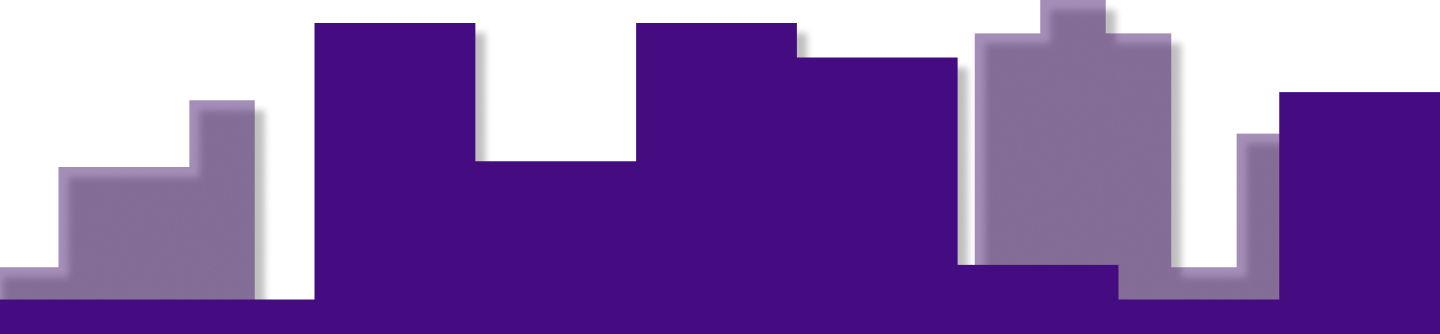
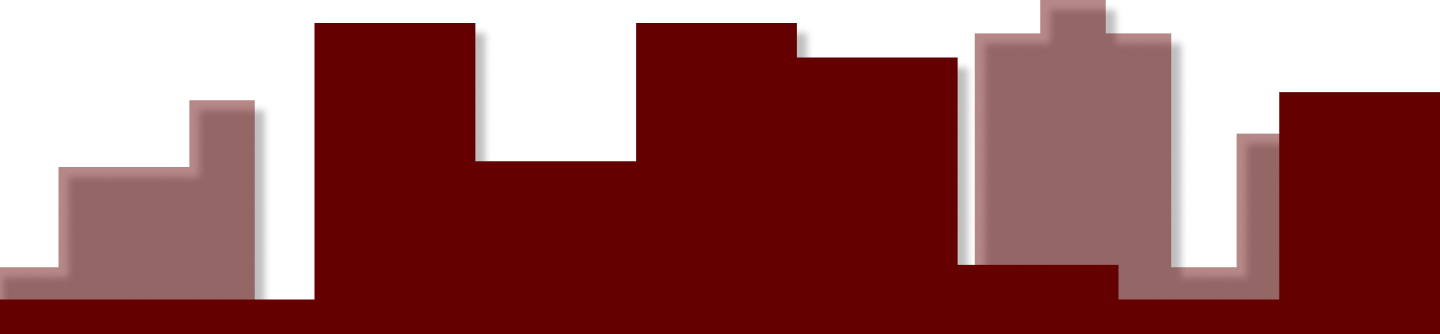
restyling started

diff --git a/ClientApp/src/components/NewTask.css b/ClientApp/src/components/NewTask.css
@@ -1,24 +1,80 @@
 .form {
-    background: #EFCDFF;
-    display: flex;
-    flex-direction: column;
-    align-items: center;
+    margin: 0 auto;
+    max-width: 500px;
+    padding: 30px;
+    background-color: #f3f3f3;
+    border-radius: 10px;
 }
 
 .heading {
-    color: #259F46;
     text-align: center;
-    font-family: Rammetto One;
-    font-size: 56px;
-    font-style: normal;
-    font-weight: 400;
-    line-height: 47.5px;
+    color: #333;
 }
 
 .form-group {
-    color: blue;
+    margin-bottom: 20px;
+}
+
+.form-control {
+    padding: 10px;
+    border-radius: 5px;
+    border: 1px solid #ddd;
 }
 
 .task-button {
+    text-align: center;
+    padding-top: 20px;
+}
+
+.btn {
+    padding: 10px 20px;
+    border: none;
+    border-radius: 5px;
+    cursor: pointer;
+}
+
+.btn-primary {
+    background-color: #007bff;
+    color: #fff;
+}
+
+.btn-success {
+    background-color: #28a745;
+    color: #fff;
+}
+
+.modal {
+    position: fixed;
+    top: 0;
+    left: 0;
+    width: 100%;
+    height: 100%;
+    background-color: rgba(0,0,0,0.5);
     display: flex;
+    justify-content: center;
+    align-items: center;
+}
+
+.modal-dialog {
+    width: 500px;
+    background-color: #fff;
+    border-radius: 10px;
+    overflow: auto;
+}
+
+.modal-header,
+.modal-footer {
+    padding: 20px;
+    border-bottom: 1px solid #ddd;
+}
+
+.modal-title {
+    margin: 0;
+    font-size: 1.2em;
+}
+
+.close {
+    cursor: pointer;
+    float: right;
+    font-size: 1.2em;
 }

diff --git a/ClientApp/src/components/AdminHome.js b/ClientApp/src/components/AdminHome.js
@@ -3,7 +3,6 @@ import { useState } from "react";
 import { useNavigate } from "react-router-dom";
 import './AdminHome.css';
 import Footer from "./Vector.png";
-import Ellipse from "./Ellipse 1.svg";
 import routeMappings from "../routeMappings";
 
 const AdminHome = () => {
@@ -110,7 +109,7 @@ const AdminHome = () => {
                             <input className="checkbox" type="checkbox" value={inputCheckbox} onClick={HandleCheckbox}/>
                             <label className = "flabel">Remember me</label>
                         </div>
-                        <div className="Login" ><img className="Login-img" src={Ellipse} alt="Login-Button" onClick={HandleSubmit}/></div>
+                        <div className="Login" ><button className="Login-img" onClick={HandleSubmit}><p className = "login-para">Login</p>< / button ></div>
                         <a className="forgot" href="/ForgotPassword">Forgot password?</a>
                     </div>
                     <p>{inputLoginFail}</p>

diff --git a/ClientApp/src/components/AdminHome.css b/ClientApp/src/components/AdminHome.css
@@ -7,7 +7,7 @@ body {
 }
 .Home {
     text-align: center;
-    background: #DFC4FF;
+    background: #FCF0C8;
     margin: 0;
     padding: 0;
     width: 100%;
@@ -16,7 +16,7 @@ body {
 
 .Admin-head {
     margin: 0;
-    color: #259F46;
+    color: #630A10;
     text-shadow: 15px 15px 10px rgba(0, 0, 0, 0.25);
     font-family: Rammetto One;
     font-size: 5vw;
@@ -26,7 +26,7 @@ body {
 }
 
 .Admin-info {
-    color: #45176D;
+    color: #224957;
     text-align: center;
     font-family: Alatsi;
     font-size: 25px;
@@ -70,7 +70,7 @@ body {
 }
 
 .flabel{
-    color: #389600;
+    color: #224957;
     text-align: center;
     font-family: Montserrat;
     font-size: 20px;
@@ -95,9 +95,15 @@ body {
 }
 
 .Login-img {
-    width: 10vw;
+    padding: 35px;
+    border-radius: 50%;
+    background: #630A10;
 }
 
+.login-para {
+    color: whitesmoke;
+    font-size: 20px;
+}
 .Footer-img {
     width: 100%;
     margin-top: 20px;

diff --git a/ClientApp/src/components/WorkReport.css b/ClientApp/src/components/WorkReport.css
@@ -6,3 +6,53 @@
 .slick-dots li.slick-active button:before {
   color: #000;
 }
+
+/* WorkReport.css */
+
+.grid {
+    display: grid;
+    grid-template-columns: repeat(auto-fit, minmax(200px, 1fr));
+    gap: 30px;
+    padding: 20px;
+    background-color: #f3f3f3;
+}
+
+.grid h2 {
+    text-align: center;
+    color: #7cd57c;
+}
+
+.grid img {
+    width: 100%;
+    height: auto;
+    border-radius: 5px;
+}
+
+.slick-arrow {
+    background-color: #333;
+    height: 30px;
+    width: 30px;
+    display: block !important;
+    color: #fff;
+    border-radius: 50%;
+    padding: 5px;
+    transition: background-color 0.3s;
+}
+
+.slick-arrow:hover {
+    background-color: #007bff;
+}
+
+.slick-next {
+    right: 10px;
+}
+
+.slick-prev {
+    left: 10px;
+}
+
+.slick-slide img {
+    height: 250px;
+    width: 100%;
+    object-fit: cover;
+}

diff --git a/ClientApp/src/components/NewTask.js b/ClientApp/src/components/NewTask.js
@@ -175,7 +175,7 @@ const NewTask = () => {
                 ))}
             </div>
             {showModal && (
-                <div className="modal" tabIndex="-1" role="dialog" style={{ display: "block" }}>
+                <div className="modal" tabIndex="-1" role="dialog" style={{display: showModal ? "block" : "none"  }}>
                     <div className="modal-dialog" role="document">
                         <div className="modal-content">
                             <div className="modal-header">

diff --git a/ClientApp/src/components/AdminMain.css b/ClientApp/src/components/AdminMain.css
@@ -9,7 +9,7 @@
 }
 
 .para {
-    color: #259F46;
+    color: #640000;
     font-family: Judson;
     font-size: 45px;
     font-style: italic;
@@ -22,7 +22,7 @@
     display: flex;
     justify-content: space-evenly;
     border-radius: 20px;
-    background: #E6E1FF;
+    background: #FBCE84;
     box-shadow: 0px 4px 4px 0px rgba(0, 0, 0, 0.25);
     width: 55vw;
     height: 50vh;
